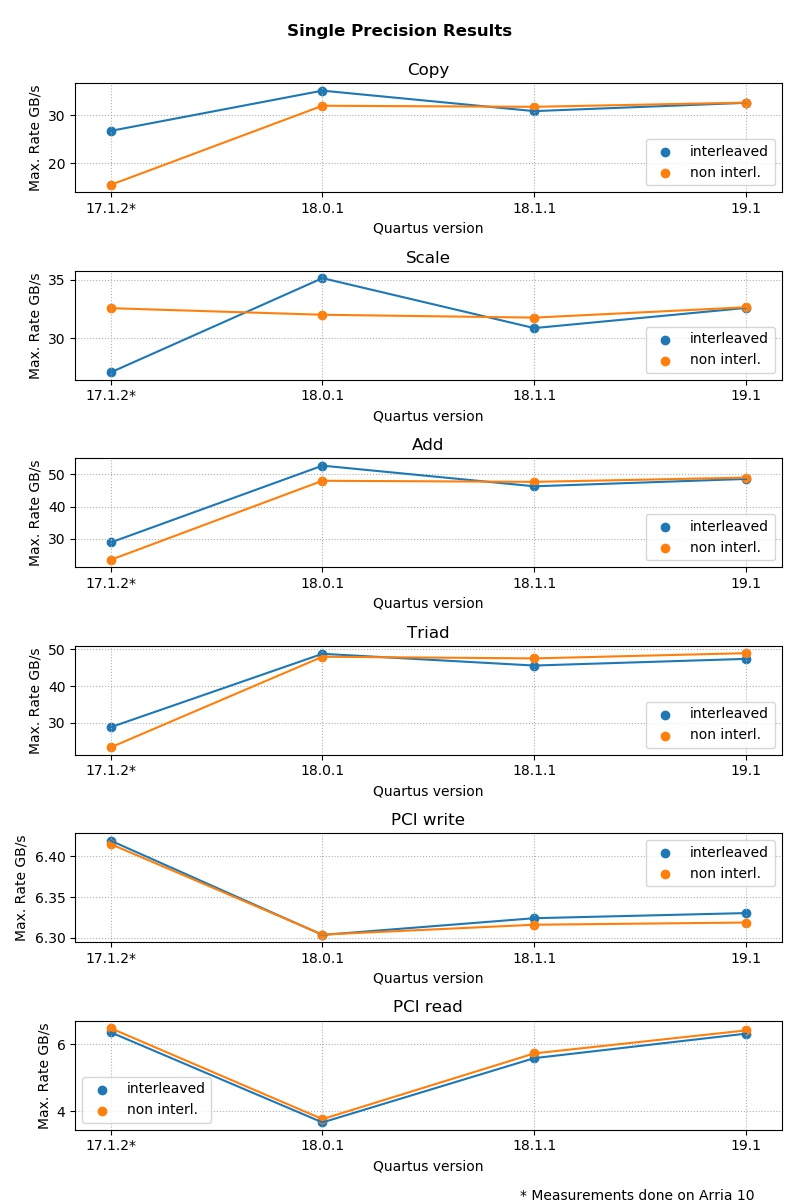
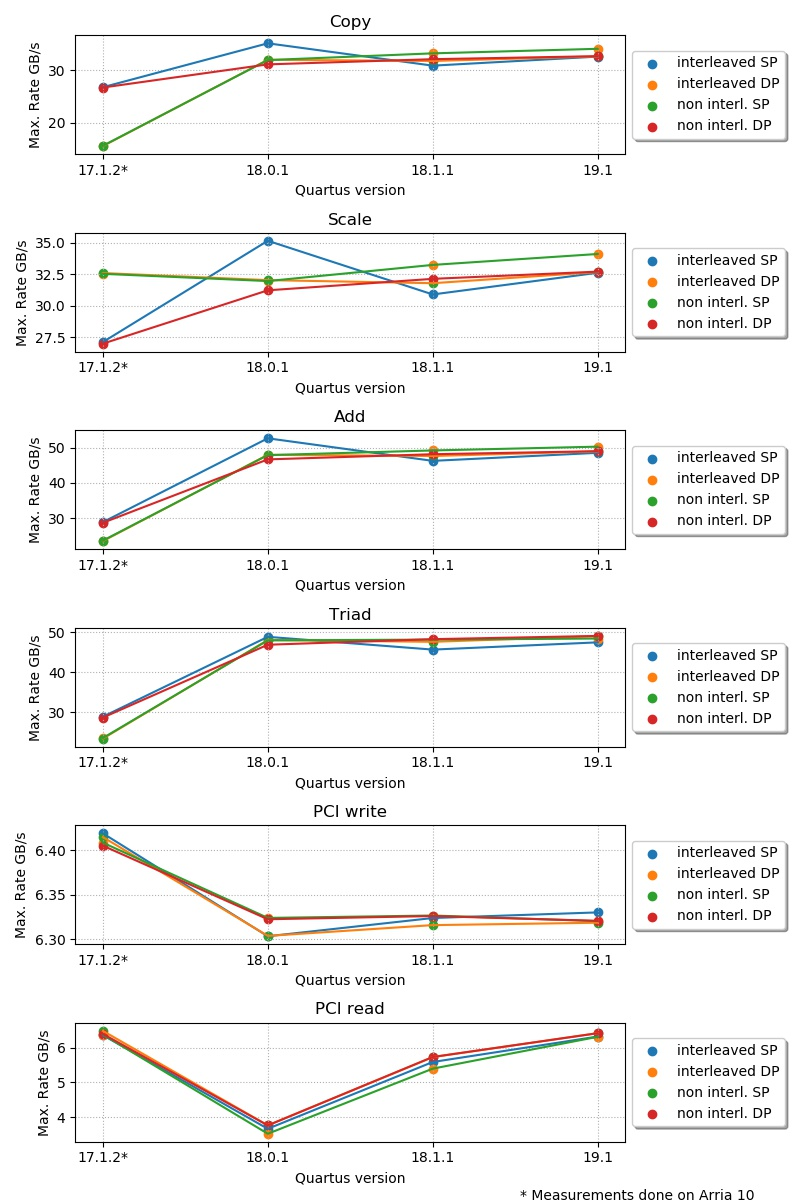
Combine plots for SP and DP

diff --git a/README.md b/README.md
@@ -81,7 +81,5 @@ after each iteration.
 
 The benchmark was executed on Bittware 520N cards for different Intel® Quartus® Prime versions.
 The detailed results of the runs are given in [results.txt](results.txt).
-The best achieved data rates with single precision for the tested Intel® Quartus® Prime versions:
+The best achieved data rates for single and double precision:
 ![Best data rate results](best_data_rates.jpeg)
-Results for double precision:
-![Best data rate results](best_data_rates_dp.jpeg)
